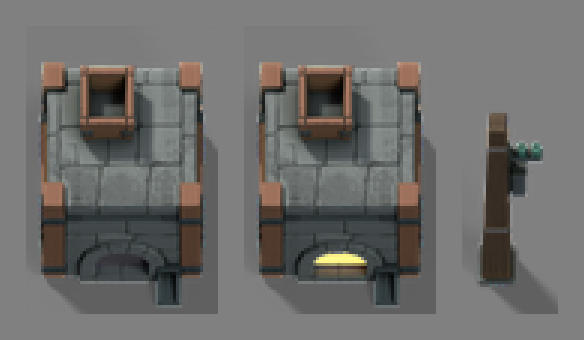
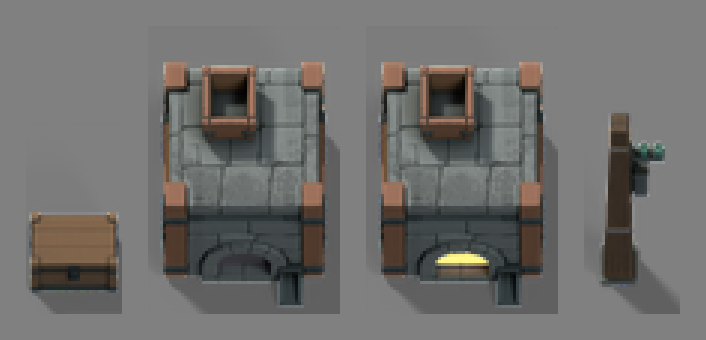
The chest is real: last proxy retired, 1x1 textured path exercised
Tripo chest.glb replaces the untextured placeholder. yaw 0 confirmed by
turnaround (the latch face). fit=footprint, fill 0.90, cell 1x2, single state.
Rig correlation +0.681 (strong), the highest in the set.

K = 6 x members tested at its low end, and it is UNDER-RESOLVED at two members.
The `trusted` column is blind here - two members are maximally separable, so it
reads 2/2 even at K=4. The gains are not: iron is 1.08 at the derived K=12
against 1.29-1.42 for K>=20. NOT raised, because rendering at K=12 and K=24 and
differencing gives mean 3.2/255, max 8/255 - invisible - while raising K_MIN
would change K for the approved and pinned pole and force a re-approval.
Recorded as a soft spot with the trigger to revisit. Adds art/tools/k_sweep.py
and a --k diagnostic override.

Plan ratio measured: 1.549:1, tile coverage X 90.0% / Y 58.1%, 10.2px of gap
along Y. Not a defect; written down because footprint_fill controls the LONG
AXIS ONLY and that becomes a habit across twenty buildings.

Consistency verdict re-taken on three real assets, no proxies. They agree, with
one measured disagreement: the pole's oak renders at 0.33x the smelter's while
its ALBEDO is the brightest of the three - so the loss is form, not correction.
That is the section 25 trade, now visible at a size that decision did not
anticipate.

Chest is NOT pinned - approval is the designer's.

diff --git a/art/tools/k_sweep.py b/art/tools/k_sweep.py
@@ -1,0 +1,83 @@
+"""Does K = 6 x declared members still hold at this member count?
+
+    python art/tools/k_sweep.py chest --ks 4,6,8,12,16,24,32
+
+K=10 was the root cause of every matching instability chased before it, and the
+fix was to DERIVE K from how many palette members an asset declares rather than
+pick a number (see PIPELINE.md, the comment above CLUSTERS_PER_MEMBER). That
+rule was established on a four-member asset. A rule fitted at one point is not
+a rule, so it gets re-tested whenever a new member count first appears.
+
+What to look for, in order:
+
+  trusted   how many declared members produced a trusted anchor. This is the
+            headline. The derived K should sit INSIDE a plateau where this is
+            at its maximum, not at the edge of one.
+  rescued   members recovered by the nearest-texel fallback (§30). A member
+            that is rescued at every K is genuinely too small to cluster and
+            says nothing about K; one that is rescued only at low K is being
+            starved of centroids.
+  gain      the anchors' gains. Even where `trusted` is flat, gains that swing
+            with K mean the clusters are still being cut differently each time
+            and the plateau is not real.
+
+A plateau in `trusted` with unstable `gain` is a false plateau. Both have to
+settle before the derived K is defensible at that member count.
+"""
+
+import argparse
+import json
+import os
+import sys
+
+import numpy as np
+
+HERE = os.path.dirname(os.path.abspath(__file__))
+REPO = os.path.abspath(os.path.join(HERE, "..", ".."))
+sys.path.insert(0, HERE)
+import palette_drift as pd  # noqa: E402
+
+
+def main():
+    ap = argparse.ArgumentParser()
+    ap.add_argument("asset")
+    ap.add_argument("--ks", default="4,6,8,12,16,24,32")
+    ap.add_argument("--tex")
+    a = ap.parse_args()
+
+    man = json.load(open(os.path.join(REPO, "art", "assets.json")))
+    cfg = next(x for x in man["assets"] if x["name"] == a.asset)
+    members = cfg["palette_members"]
+    tex = a.tex or os.path.join(REPO, "art", "renders", "tex",
+                                f"{a.asset}_basecolor.png")
+    derived = pd.clusters_for(len(members))
+    print(f"{a.asset}: {len(members)} declared members {members}")
+    print(f"  derived K = {pd.CLUSTERS_PER_MEMBER} x {len(members)} = {derived}\n")
+    print(f"{'K':>4} {'trusted':>8} {'rescued':>9}  anchors and gains")
+
+    real = pd.clusters_for
+    for K in [int(v) for v in a.ks.split(",")]:
+        pd.clusters_for = lambda n, _k=K: _k
+        try:
+            res = pd.analyse(tex, members=members)
+            import io
+            import contextlib
+            buf = io.StringIO()
+            with contextlib.redirect_stdout(buf):
+                remap = pd.build_remap(res)
+        finally:
+            pd.clusters_for = real
+        anchors = remap["anchors"]
+        resc = [x["member"] for x in anchors if x.get("via") == "nearest-texel"]
+        trusted = [x["member"] for x in anchors if x.get("via") != "nearest-texel"]
+        desc = "  ".join(
+            f"{x['member'][:12]} [{', '.join(f'{v:.2f}' for v in x['gain'])}]"
+            + ("*" if x.get("via") == "nearest-texel" else "")
+            for x in anchors)
+        mark = "  <-- derived" if K == derived else ""
+        print(f"{K:>4} {len(trusted):>4}/{len(members)} {len(resc):>9}  {desc}{mark}")
+    print("\n  * = recovered by the nearest-texel fallback, not by clustering")
+
+
+if __name__ == "__main__":
+    main()

diff --git a/art/tools/palette_drift.py b/art/tools/palette_drift.py
@@ -493,6 +493,9 @@ def emit(name, a):
 def main():
     ap = argparse.ArgumentParser()
     ap.add_argument("textures", nargs="+")
+    ap.add_argument("--k", type=int,
+                    help="override the derived K. Diagnostic only - the rule is "
+                         "K = 6 x declared members; see art/tools/k_sweep.py")
     ap.add_argument("--render", action="store_true",
                     help="inputs are rendered RGBA sprites/masters, not albedo textures")
     ap.add_argument("--emit", metavar="ASSET",
@@ -500,6 +503,9 @@ def main():
     ap.add_argument("--members", help="comma-separated palette members this asset uses; "
                                       "defaults to the asset's palette_members in assets.json")
     a = ap.parse_args()
+    if a.k:
+        globals()["clusters_for"] = lambda n, _k=a.k: _k
+        print(f"  ** K OVERRIDDEN to {a.k} (diagnostic, not the rule)")
 
     out = []
     for t in a.textures:

diff --git a/art/PIPELINE.md b/art/PIPELINE.md
@@ -784,17 +784,79 @@ Blender is expected at `C:\Program Files\Blender Foundation\Blender 5.2\blender.
 
 ## 11. Status — end of session 1
 
-**Two real assets, one proxy, one calibration fixture.** That is what exists.
-The brief asked for three real assets and we have two; the third slot is filled
-by a placeholder that is not a Tripo asset and is flagged as such everywhere it
-appears.
+**Three real assets and a calibration fixture. No proxies.** The chest proxy is
+retired; every asset in the set is now a real Tripo generation through the full
+pipeline.
 
 | Asset | Status | Pinned | Notes |
 |---|---|---|---|
 | `smelter` | **real, APPROVED** | yes | Reference asset. 2×2, idle + smelting, magenta firebox mask, all four declared members matched with zero drops. |
 | `power_pole` | **real, APPROVED** | yes | v5, one-sided. 1×1 footprint, `fit: height` 2.6, cell 1×3. Weakest of the set — see below. |
-| `chest` | **PROXY — not a Tripo asset** | n/a | Untextured placeholder. It proves the 1×1 path and **nothing else**. It is not part of the consistency verdict and must not be cited as evidence of anything about art direction. |
+| `chest` | **real, awaiting approval** | not yet | 1×1, `fit: footprint`, fill 0.90, cell 1×2, single state. **First 1×1 textured asset** and **first two-member asset**. Retires the proxy. |
 | `_calib_floor` | calibration | n/a | Permanent synthetic HF floor, 1.00%. Committed, gitignore-exempt, **never regenerated** — regenerating moves the floor, which is the failure it exists to prevent. |
+
+### The chest: what it exercised that nothing else had
+
+**The 1×1 textured path.** It had only ever been walked by an untextured
+placeholder, so every part of the pipeline downstream of a texture — palette
+matching, the remap, the material clamps — was unproven at 1×1. It works. Rig
+correlation +0.681 (strong), the highest in the set.
+
+**The `K = 6 × members` rule at its low end.** The rule was fitted on a
+four-member asset. The chest is the first two-member one, so K=12, the floor.
+Result, from `art/tools/k_sweep.py`:
+
+| K | trusted | oak gain (R) | iron gain (R) |
+|---|---|---|---|
+| 12 *(derived)* | 2/2 | 1.40 | **1.08** |
+| 16 | 2/2 | 1.41 | **1.21** |
+| 20 | 2/2 | 1.64 | 1.42 |
+| 24 | 2/2 | 1.59 | 1.38 |
+| 32 | 2/2 | 1.56 | 1.40 |
+| 48 | 2/2 | 1.49 | 1.30 |
+| 64 | 2/2 | 1.34 | 1.29 |
+
+**`trusted` carries no signal at two members** — two declared members are
+maximally separable, so the column is 2/2 everywhere including K=4. The
+diagnostic that decided the rule at four members is blind at two.
+
+The gains are not blind, and they say **K=12 is under-resolved**: iron reads
+1.08 at the derived K against 1.29–1.42 for K≥20, and iron's chroma match
+distance is 0.115 at K=12 against 0.120 at K=24 while oak's is 0.021. The
+chest's texture is oak-dominated, so at 12 clusters the minority ironwork gets
+too few centroids and its own is contaminated by dark oak.
+
+**It was not raised, and the reason is measured, not assumed.** Rendering the
+same asset at K=12 and K=24 and differencing the sprites: **mean 8-bit sRGB
+delta 3.2, p95 5, max 8**. The ironwork is 17.5% brighter at K=24 in relative
+terms, but these are dark values and the absolute difference is invisible at
+32 px. Against that, raising `K_MIN` would change K for every asset with three
+or fewer members — including the **approved and pinned** power pole (18 → 20) —
+and force it back through the gate. An invisible correction is not worth an
+approval.
+
+Recorded as a known soft spot rather than fixed: **if a future two- or
+three-member asset shows visible material disagreement, raise `K_MIN` first.**
+
+### The chest's plan is rectangular, and here is what that costs
+
+`fit: footprint` scales by the **larger** XY extent, so a non-square plan fills
+the tile in its long axis and leaves a gap in the short one. Measured:
+
+| | |
+|---|---|
+| Normalized extent | X 0.900, Y 0.581, Z 0.479 tiles |
+| **Plan ratio X:Y** | **1.549 : 1** |
+| Tile coverage | X 90.0%, Y 58.1% |
+| Plan area covered | 52.3% of the tile, 64.5% of the 0.90 fill box |
+| Gap along Y | 0.319 tiles = **10.2 px** at 32 px/tile |
+
+Not a defect — Factorio's chests are rectangular too, and the sprite is
+centred, so the gap is symmetric front and back. It is written down because it
+becomes a habit across twenty buildings: **`footprint_fill` controls the long
+axis only.** An asset whose plan ratio drifts past roughly 2:1 will start to
+look lost in its tile, and the fix at that point is a rectangular footprint in
+the manifest, not a larger fill.
 
 | Check | State |
 |---|---|
@@ -807,17 +869,46 @@ appears.
 | HF destruction | **diagnostic, not a gate** (§22). Cap 3× the synthetic floor. |
 | The gate | the 32 px sprite and its silhouette, judged by eye (§22, §26) |
 
-### The consistency verdict
+### The consistency verdict — three real assets, no proxies
 
-**The two real assets read as one game.** Both sit under the same locked camera
-and rig, both land on `natural-5` after per-cluster correction, and at true
-size they agree about material, weight and where the sun is. The sheet is
-[`renders/consistency_1x.png`](renders/consistency_1x.png) — smelter idle,
-smelter smelting, and the pole, all at 32 px, mid-grey, shadow 0.4.
+[`renders/consistency_1x.png`](renders/consistency_1x.png): chest, smelter
+idle, smelter smelting, power pole, all at true 32 px on mid-grey with shadow
+0.4. This is the first time the verdict can honestly exist.
 
-Two assets is a thin basis for a verdict and it should be re-taken at five. It
-is enough to say the pipeline produces agreeing assets; it is not enough to say
-the style holds across the whole building set.
+**They read as one game.** All three sit under the same locked camera and rig,
+all land on `natural-5` after per-cluster correction, and they agree about
+material, weight and where the sun is.
+
+**With one measured disagreement, and it is the pole.** Mean rendered
+luminance of the weathered-oak pixels in each sprite:
+
+| Asset | oak px | mean luminance | vs smelter |
+|---|---|---|---|
+| `smelter` | 876 | 0.0992 | 1.00× |
+| `chest` | 597 | 0.1137 | 1.15× |
+| `power_pole` | 364 | 0.0326 | **0.33×** |
+
+Smelter and chest agree within 15%, which is close. The pole's oak renders
+**three times darker** than either.
+
+It is not the correction. In *albedo* the pole's oak is the **brightest** of
+the three (population-weighted corrected luminance 0.196, against 0.105 for the
+chest and 0.085 for the smelter). Brighter albedo arriving darker on screen
+means the loss is entirely **form**: the pole is almost all vertical surface,
+and a fixed key at 50° elevation puts far less light on a vertical face than on
+the lids and tops that dominate the chest and smelter.
+
+That is the form-driven lightness accepted in **§25**, where the rig was
+measured and deliberately left locked. Three assets is the first sample large
+enough to show its size, and 0.33× is larger than that decision anticipated.
+It is not re-opened here — the trade was argued and settled — but it is the
+single number most worth re-checking at five assets. If tall vertical assets
+keep landing near a third of the set's mean, the decision deserves re-litigating
+with better evidence than two probes.
+
+Three assets is still a thin basis. It is enough to say the pipeline produces
+agreeing assets across both footprints, both fit modes, and two through four
+palette members. It is not enough to say the style holds across twenty.
 
 ### The pole is the weakest of the set, and the reason is EQUIPMENT REACH
 
@@ -1965,16 +2056,20 @@ value.
 | Deliverable | State |
 |---|---|
 | A locked Blender template | **done** — `art/template.blend`, regenerable from `make_template.py`, stamp `434c0cf56d8f` |
-| Three test assets | **two of three.** smelter and power_pole are real and approved. The chest is a PROXY and is flagged as one in the manifest, in §11 and here. |
-| A consistency verdict | **given** (§11), on two assets, with the caveat that two is thin |
+| Three test assets | **three of three, all real.** smelter and power_pole approved and pinned; chest rendered and awaiting approval. No proxies remain. |
+| A consistency verdict | **given** (§11), on three real assets, with the pole's 0.33× oak as the one measured disagreement |
 | A prompt template | **done** — [`PROMPTS.md`](PROMPTS.md) |
 | `art/PIPELINE.md` | this file |
 
 The three assets were chosen to expose different failure modes and they did:
 the smelter proved the 2×2 path, the emission mask and the palette matcher; the
 pole proved the tall-thin path, `fit: height`, and — expensively — that the
-silhouette is the gate. The chest's failure mode is that it was never
-generated. It proves the 1×1 code path and must not be read as anything more.
+silhouette is the gate; the chest proved the 1×1 TEXTURED path, which had only
+ever been walked by a placeholder, and tested `K = 6 × members` at its low end
+where it turned out to be under-resolved but invisibly so.
+
+Each one broke something different, which is what choosing them for failure
+modes was supposed to achieve.
 
 ### What actually cost the most
 
@@ -1994,18 +2089,24 @@ actually measured.**
 
 ### Where the ground is soft
 
-- **Two assets is a thin consistency verdict.** Re-take it at five.
+- **Three assets is still a thin consistency verdict.** Re-take it at five.
+- **The pole renders at 0.33× the set's oak luminance** — form, not correction
+  (§11). Accepted under §25, but it is the number to watch as tall assets
+  accumulate.
+- **`K_MIN = 12` is under-resolved for two-member assets**, by measurement, but
+  the error is invisible (max 8/255). Raise it if a future low-member asset
+  shows visible material disagreement — and expect to re-approve the pole.
 - **The prompt palette is advisory** (§14). What binds is material presence and
   distinctness. Do not expect prompting to control colour; the remap owns it.
-- **The chest is a proxy.** The 1×1 *textured* path has never been run.
 - **Moving parts are specified, not built** (§9).
 - **The nearest-texel rescue is one asset old.** It fired correctly once. Watch
   the RESCUED lines on the next few assets rather than trusting it silently.
 
 ### First things to do in session 2
 
-1. Generate a real 1×1 textured asset and retire the chest proxy. It is the
-   only code path with no real coverage.
-2. Re-take the consistency verdict once five real assets exist.
-3. Pole variants for Pole Tiers — start from the equipment-reach note in §11,
+1. Re-take the consistency verdict once five real assets exist, and watch the
+   oak-luminance spread — the pole's 0.33× is the open question.
+2. Pole variants for Pole Tiers — start from the equipment-reach note in §11,
    not from colour or silhouette.
+3. A rectangular-footprint asset, if one is coming. `footprint_fill` controls
+   the long axis only, and the chest already leaves 10.2 px of gap at 1.549:1.
